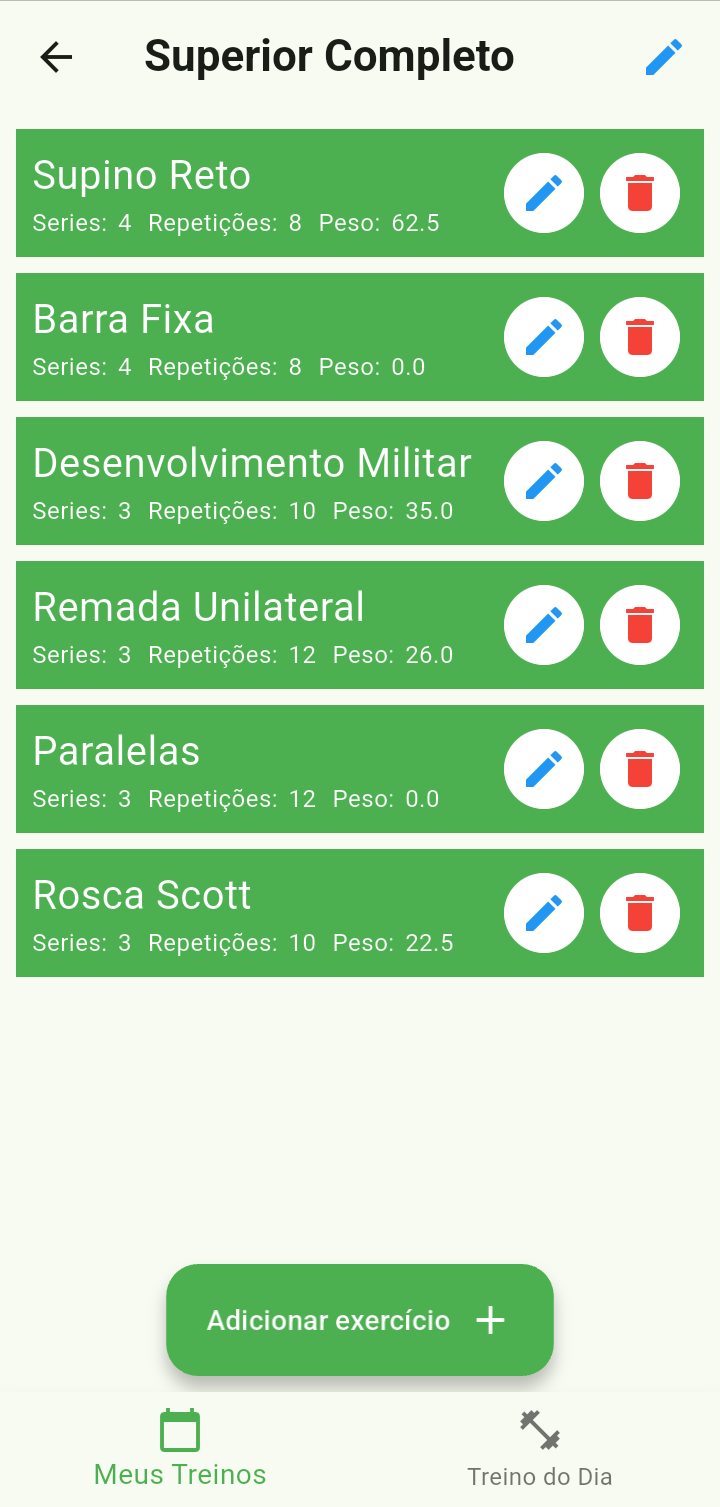
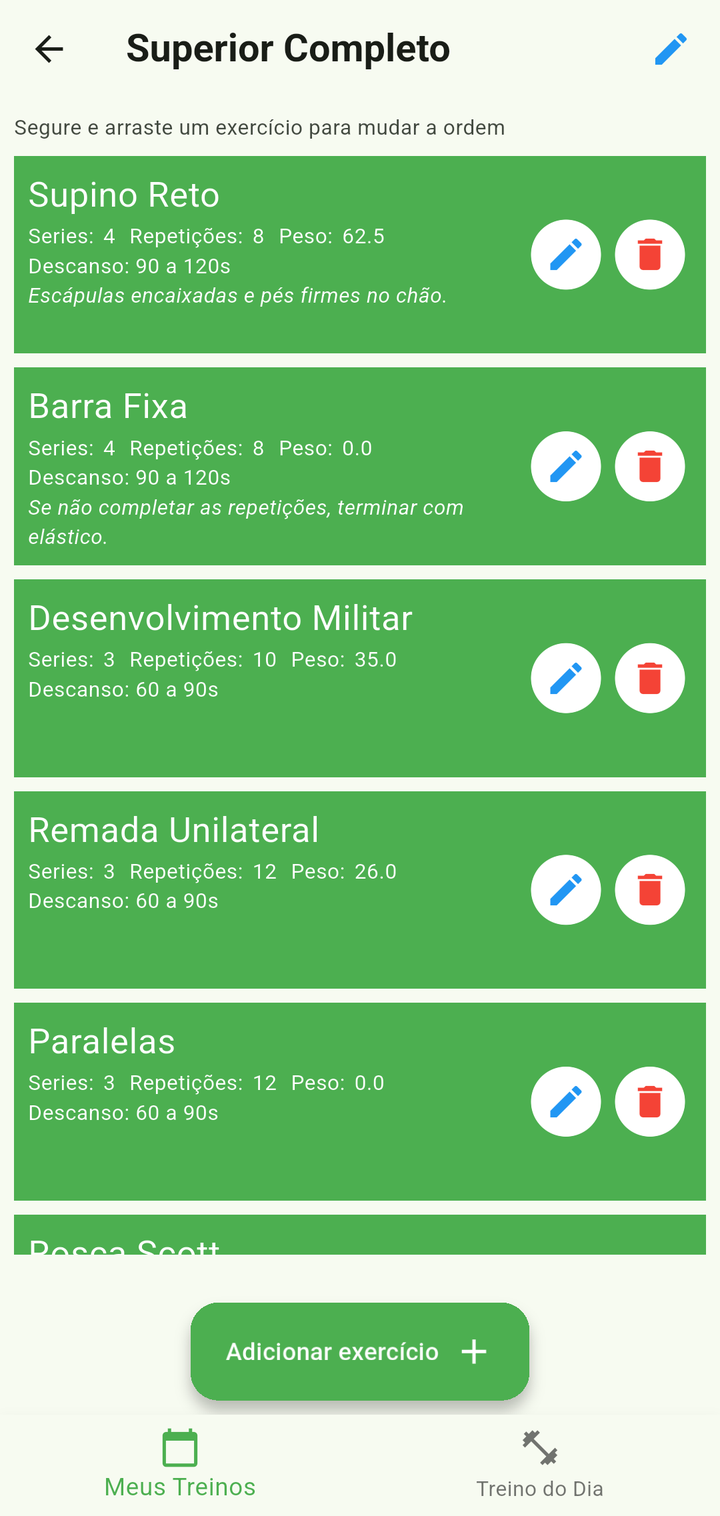
docs: atualiza README e prints com fichas de treino e testes

diff --git a/README.md b/README.md
@@ -13,7 +13,7 @@ App mobile em Flutter para organizar a rotina de musculação da semana. Cada di
 
 ## Funcionalidades
 
-- **Treino do dia:** ao abrir o app, mostra o treino do dia da semana atual com a lista de exercícios.
+- **Treino do dia:** ao abrir o app, mostra o treino do dia da semana atual com a lista de exercícios. Ao voltar para o app depois de um tempo em segundo plano, a tela é atualizada, então o treino certo aparece mesmo se o dia tiver virado.
 - **Planejamento semanal:** um treino para cada dia, de segunda a domingo, criado automaticamente.
 - **Gerenciamento de exercícios:** adicionar, editar e excluir exercícios, com confirmação antes de excluir.
 - **Descanso:** cada exercício tem uma faixa de descanso obrigatória, com mínimo e máximo em segundos (exibida como `45 a 60s`). Exercícios salvos antes dessa versão aparecem como "Não definido" até serem editados.
@@ -45,7 +45,7 @@ flowchart LR
         W[Widgets / Screens] --> VM[ViewModels]
     end
     subgraph Domain
-        M[Models<br/>Workout, Exercise]
+        M[Models<br/>WorkoutPlan, Workout, Exercise]
     end
     subgraph Data
         R[WorkoutRepository] --> S[DataBaseLocalSqlite]
@@ -66,8 +66,9 @@ flowchart LR
 - **Result pattern em vez de exceções:** os erros fazem parte do tipo de retorno (`Result<Workout>`), então quem chama é obrigado a tratar o caso de falha.
 - **Exceções tipadas na camada de dados:** a `DataBaseLocalException` carrega uma mensagem para o usuário, uma mensagem técnica para log e um `code` (ex: `SQLITE_DELETE_EXERCISE_NOT_FOUND`).
 - **Modelos de banco separados dos de domínio:** `WorkoutDbModel` e `Workout` evoluem de forma independente, e a UI não depende do formato das tabelas.
-- **Integridade no banco:** chaves estrangeiras habilitadas (`PRAGMA foreign_keys`) e `ON DELETE CASCADE` entre treinos e exercícios.
-- **Migração do banco:** o banco está na versão 2. Quem já usava o app recebe as colunas novas (descanso, observações e ordem dos exercícios) pelo `onUpgrade`, sem perder treinos e exercícios.
+- **Fichas de treino:** os treinos da semana pertencem a uma ficha (tabela `workout_plans`), e só uma ficha fica ativa por vez. Por enquanto o app usa uma única ficha, criada automaticamente, mas a estrutura já está pronta para ter várias fichas e alternar entre elas.
+- **Integridade no banco:** chaves estrangeiras habilitadas (`PRAGMA foreign_keys`) e `ON DELETE CASCADE` de fichas para treinos e de treinos para exercícios.
+- **Migração do banco:** o banco está na versão 3. Quem já usava o app recebe pelo `onUpgrade` as colunas de descanso, observações e ordem dos exercícios (versão 2) e a tabela de fichas (versão 3), com os treinos que já existiam ligados a uma ficha padrão. Treinos e exercícios continuam iguais, sem perda de dados.
 
 ### Estrutura de pastas
 
@@ -79,7 +80,7 @@ lib/
 │       ├── local/               # Implementação SQLite e interface
 │       ├── models/              # Modelos do banco (freezed)
 │       └── exceptions/          # Exceções tipadas
-├── domain/models/               # Workout, Exercise (freezed)
+├── domain/models/               # WorkoutPlan, Workout, Exercise (freezed)
 ├── ui/
 │   ├── app/                     # MaterialApp, rotas e bottom navigation
 │   ├── shared/                  # Bottom sheets e diálogos reutilizáveis
@@ -107,6 +108,22 @@ Os arquivos gerados pelo freezed (`*.freezed.dart`) já estão versionados. Se v
 ```bash
 dart run build_runner build --delete-conflicting-outputs
 ```
+
+## Testes
+
+Testes de unidade e de widget:
+
+```bash
+flutter test
+```
+
+A migração do banco tem testes de integração, que rodam com o SQLite de verdade num emulador ou celular:
+
+```bash
+flutter test integration_test --no-uninstall -d <id do aparelho>
+```
+
+Os testes usam um arquivo de banco separado e não mexem nos treinos do app. Mesmo assim, use o `--no-uninstall`: sem ele, o Flutter desinstala o app no fim do teste e os treinos salvos no aparelho são apagados junto.
 
 ## Autor
 
